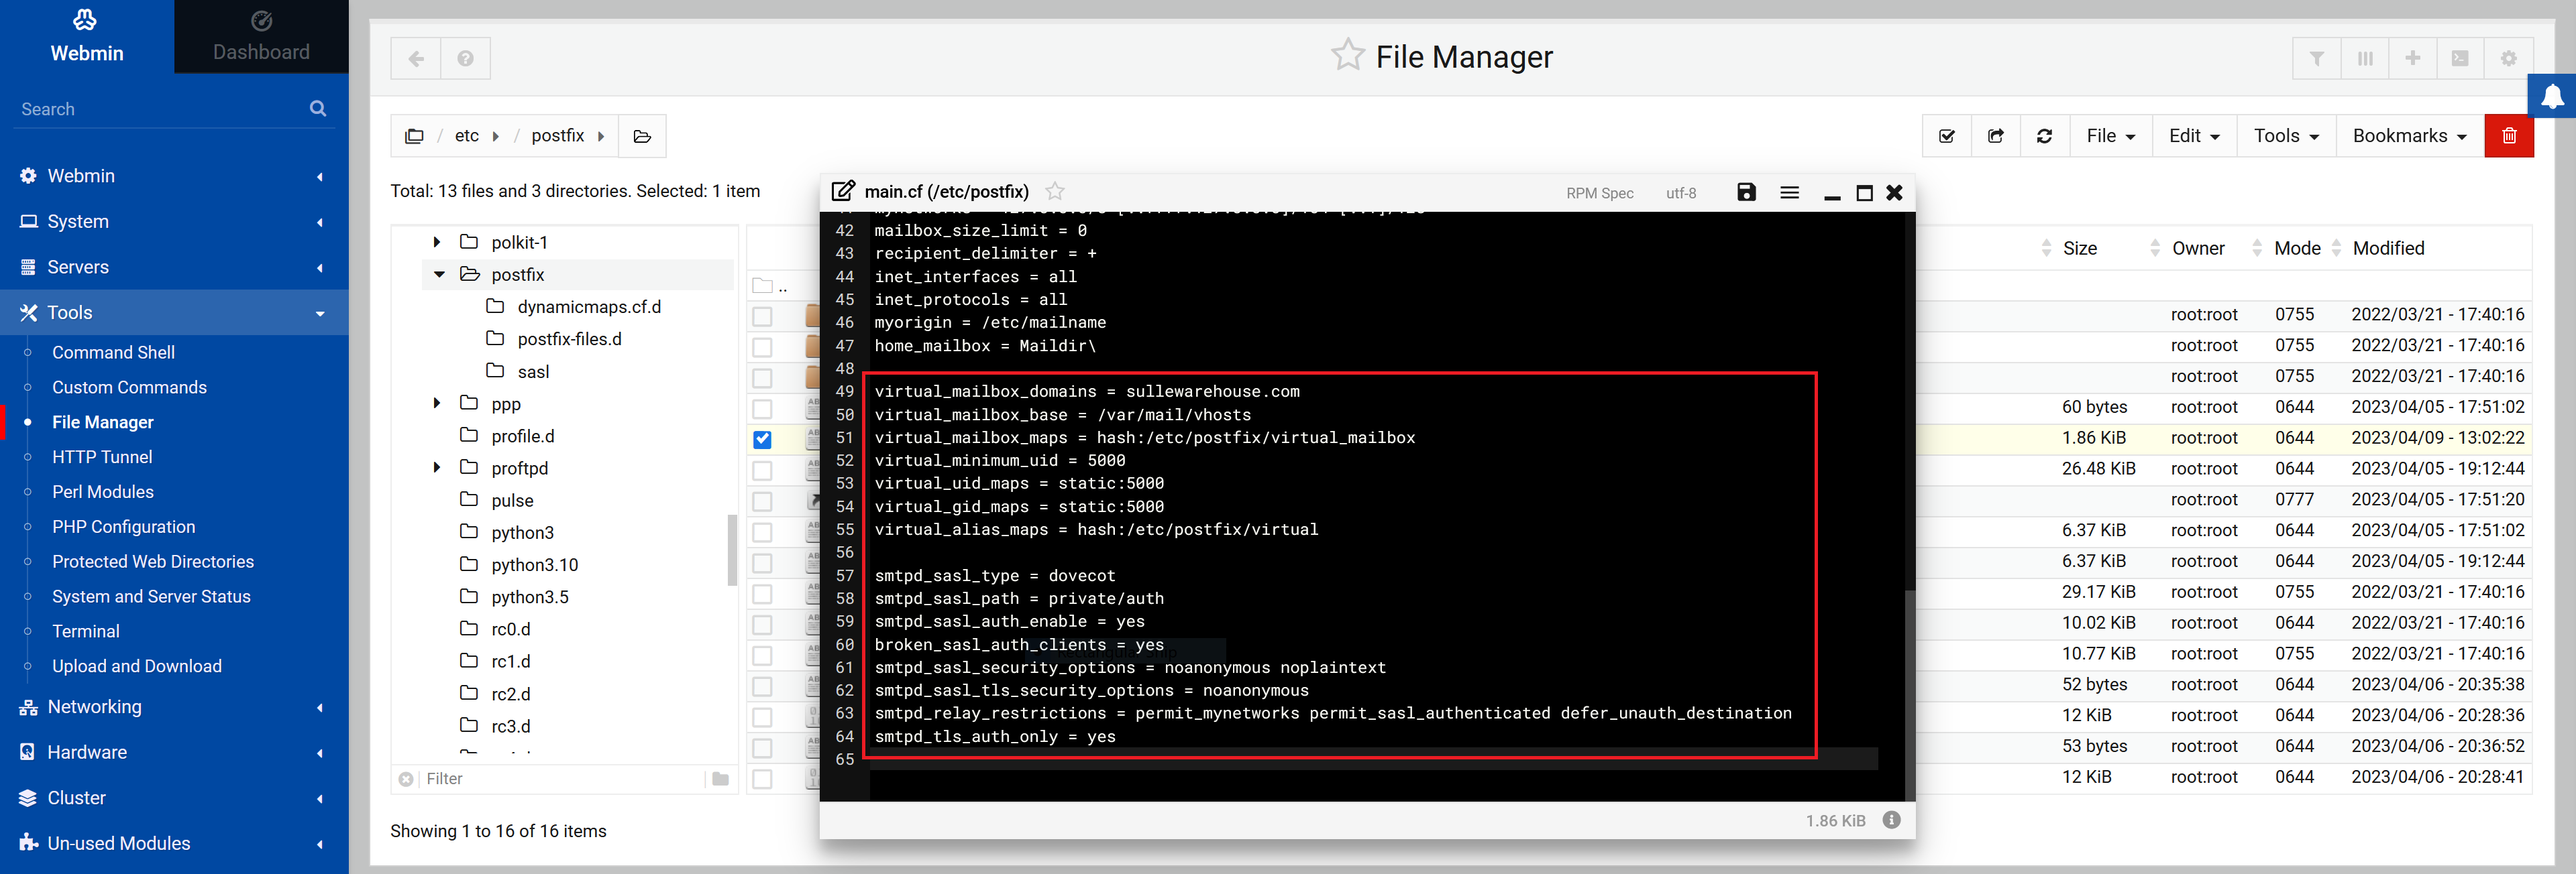
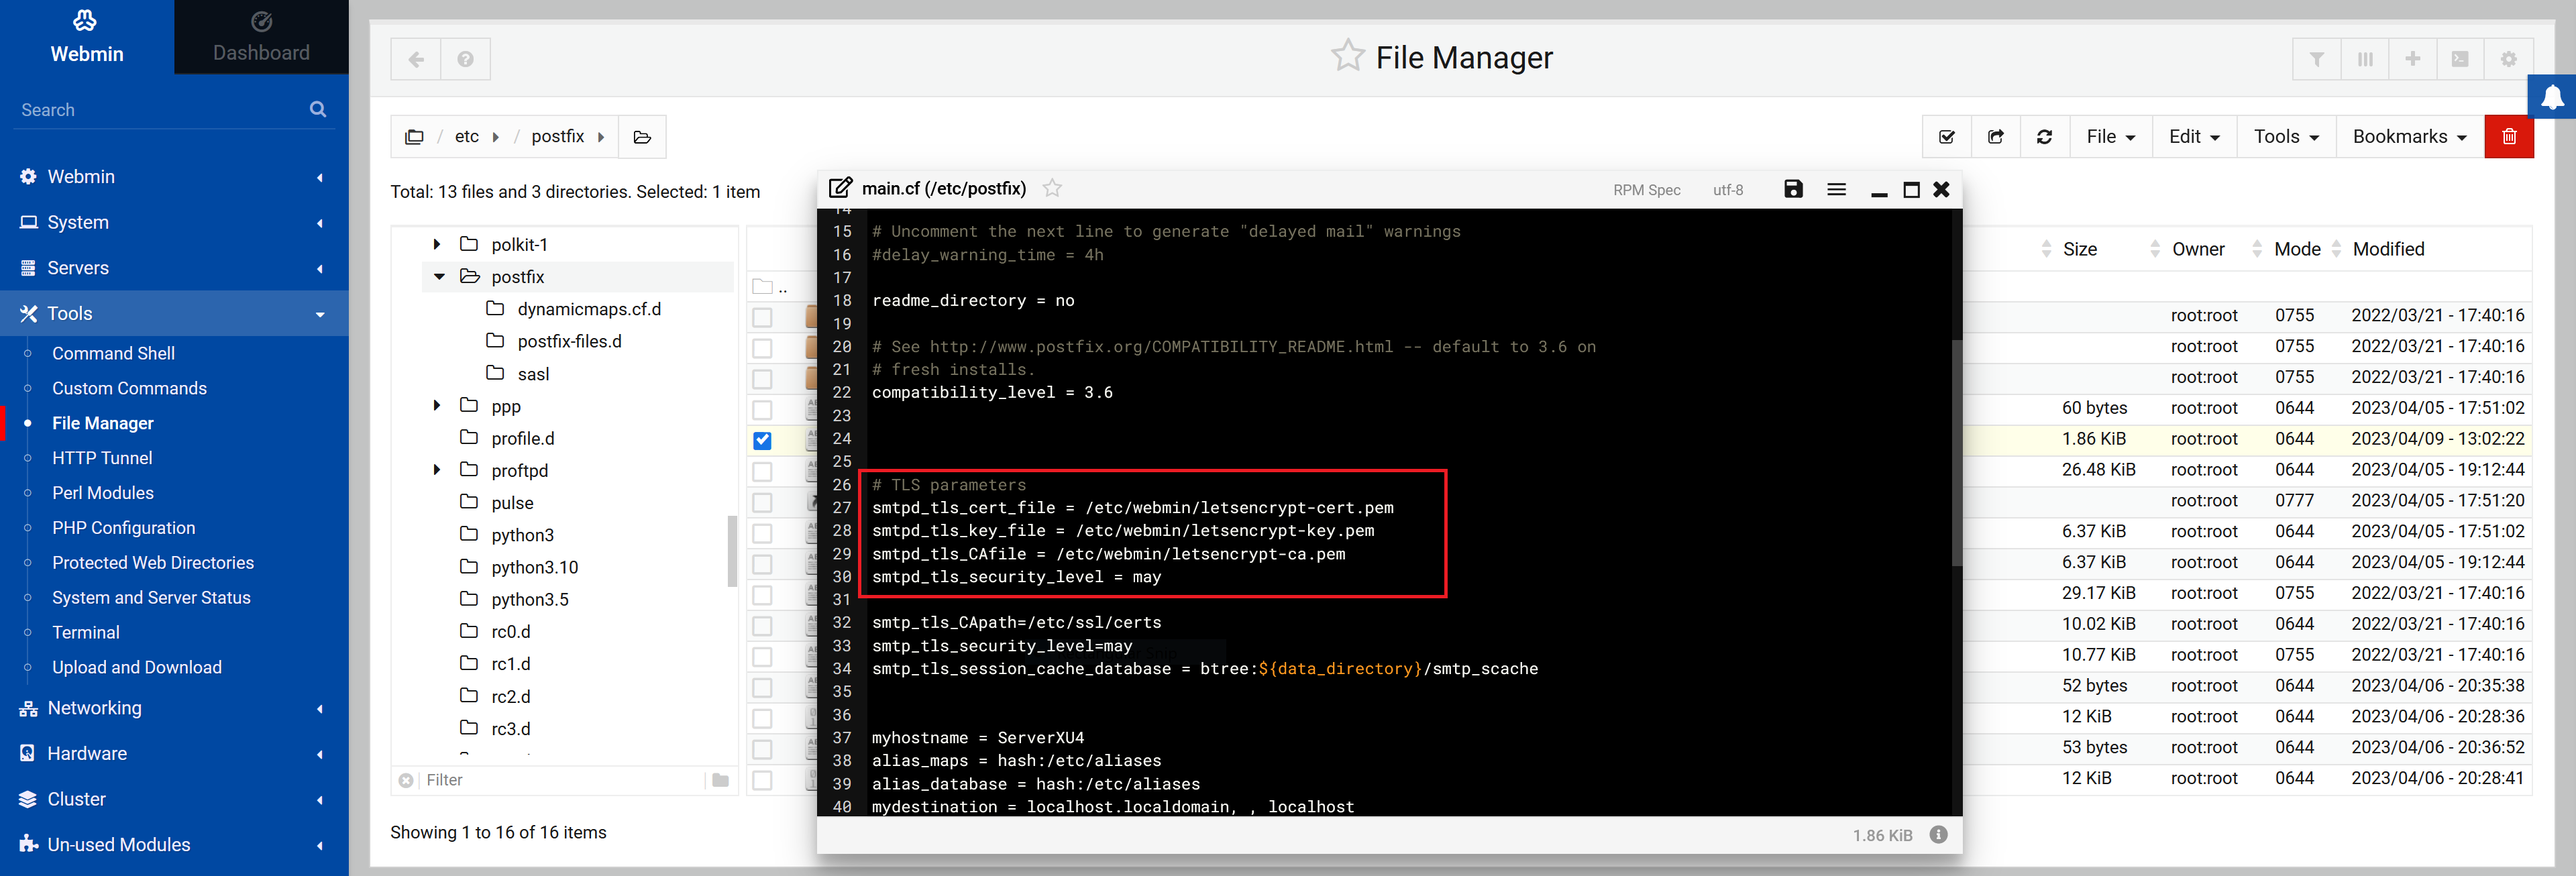
Updated Postfix setup to include TLS and more details.

diff --git a/Postfix-Dovecot-Setup.md b/Postfix-Dovecot-Setup.md
@@ -26,7 +26,8 @@ dpkg-reconfigure postfix
 1. Select `Internet Site`
 2. Enter your `System mail name`, this should match your Reverse DNS PTR record.
 3. Type the `Recipient for root and postmaster mail` you may leave this blank.
-4. Enter the `List of domains to receive mail for`
+4. Enter the `List of domains to receive mail for`  
+**NOTE: We are creating virtual domains, so do NOT add your domains here.**
 ```
 localhost.localdomain, , localhost
 ```
@@ -152,7 +153,20 @@ Create a new `/etc/postfix/virtual` file and add the following lines:
 user@example.com    user@example.com
 ```
 
-Open the Postfix configuration file `/etc/postfix/main.cf` and add the following lines:
+![Alt Text](images/postfix/1.png)
+![Alt Text](images/postfix/2.png)
+
+Open the Postfix configuration file `/etc/postfix/main.cf` and set the following SSL configuration:
+```
+# TLS parameters
+smtpd_tls_cert_file = /etc/webmin/letsencrypt-cert.pem
+smtpd_tls_key_file = /etc/webmin/letsencrypt-key.pem
+smtpd_tls_CAfile = /etc/webmin/letsencrypt-ca.pem
+smtpd_tls_security_level = may
+```
+**NOTE:** The letsencrypt certificate files were created in the [Apache Setup](Apache-Setup.md) part of this tutorial.
+
+Add the following lines to the file to the configuration file:
 ```
 virtual_mailbox_domains = example.com
 virtual_mailbox_base = /var/mail/vhosts
@@ -171,10 +185,10 @@ smtpd_sasl_tls_security_options = noanonymous
 smtpd_relay_restrictions = permit_mynetworks permit_sasl_authenticated defer_unauth_destination
 smtpd_tls_auth_only = yes
 ```
+**Click the save icon.**
 
-![Alt Text](images/postfix/1.png)
-![Alt Text](images/postfix/2.png)
 ![Alt Text](images/postfix/3.png)
+![Alt Text](images/postfix/4.png)
 
 Run the following commands to update the virtual mailbox mapping files and reload the configuration:
 ```
